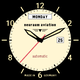
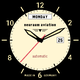
1.1.0: Pebble Time 2 with rounded rectangular dial, 10 clear of the dial
Flange geometry is now given as inset from the display edge, so the same
drawing code serves the round gabbro dial and the rounded rectangle on
emery. Flange numerals one size smaller and the flange 2 px wider, so the
10 fits on its diagonal.

Changed region(s): [[0.075, 0.025, 0.9, 0.975], [0.85, 0.7, 0.9, 0.775], [0.075, 0.25, 0.1, 0.275]]

diff --git a/src/c/neuraum.c b/src/c/neuraum.c
@@ -83,31 +83,52 @@ static const Theme THEMES[THEME_COUNT] = {
 
 // --------------------------------------------------------------- Layout
 
-// Alle Radien vom Displaymittelpunkt aus, Abstaende in Pixeln. Die
-// Verhaeltnisse sind am Foto des Vorbilds abgemessen (Flanschinnenkante bei
-// rund 77 % des Radius, Tagesfenster bei 60 %, Datum bei 51 %).
-#define RING_IN          100   // Innenkante des Flanschs = Rand des Blatts
-#define MINUTE_R_IN       95   // Minuterie: auf dem Blatt, endet am Flansch
-#define MINUTE_R_OUT      99
-#define BAR_R_IN         109   // Balken bei 1, 3, 5, 7, 9, 11 auf dem Flansch
-#define BAR_R_OUT        124
-#define BAR_W              3
-#define INDEX_R_IN        93   // ihre Fortsetzung auf dem Blatt
-#define NUMERAL_R        113   // Mitte der Flanschzahlen
-#define NUMERAL_LIFT      15   // Abstand Textbox-Oberkante zur Ziffernmitte
+// Alles am Flansch wird als Abstand vom Displayrand angegeben ("inset"),
+// gemessen entlang des Strahls aus der Mitte. Auf Gabbro ist der Rand ein
+// Kreis, auf Emery ein abgerundetes Rechteck -- edge_point() rechnet beides,
+// die Zeichenroutinen bleiben dieselben. Die Verhaeltnisse sind am Foto des
+// Vorbilds abgemessen (Blattrand bei rund 75 % des Radius, Tagesfenster bei
+// 60 %, Datum bei 51 %).
+//
+// Der Flansch muss so breit sein, dass die "10" auf ihrer Diagonale Platz
+// hat: gut 23 x 17 px Ziffernbild brauchen auf 300 Grad rund 28 px radial.
+#if defined(PBL_PLATFORM_EMERY)
+  #define CORNER_R        56   // Eckenradius am Displayrand; nach innen konzentrisch
+  #define DIAL_INSET      28   // Blattrand = Innenkante des Flanschs
+  #define BAR_INSET_OUT    5   // Balken bei 1, 3, 5, 7, 9, 11 auf dem Flansch
+  #define BAR_INSET_IN    21
+  #define NUMERAL_INSET   14   // Mitte der Flanschzahlen
 
-#define DAY_DIST          76   // Mitte des Tagesfensters ueber der Mitte
+  #define DAY_DIST        62   // Mitte des Tagesfensters ueber der Mitte
+  #define BRAND_DIST      40   // Schriftzug ueber der Mitte
+  #define LOGO_DIST       24   // Fluegel-Logo ueber der Mitte
+  #define DATE_DIST       46   // Mitte des Datumsfensters rechts der Mitte
+  #define AUTO_DIST       44   // "automatic" unter der Mitte
+  #define MADE_DIST      100   // "MADE IN GERMANY" unter der Mitte
+#else
+  #define DIAL_INSET      32
+  #define BAR_INSET_OUT    6
+  #define BAR_INSET_IN    21
+  #define NUMERAL_INSET   16
+
+  #define DAY_DIST        76
+  #define BRAND_DIST      50
+  #define LOGO_DIST       32
+  #define DATE_DIST       66
+  #define AUTO_DIST       52
+  #define MADE_DIST      114
+#endif
+
+#define MINUTE_LEN         4   // Minuterie: auf dem Blatt, endet am Flansch
+#define INDEX_LEN          7   // dunkle Fortsetzung der Balken auf dem Blatt
+#define BAR_W              3
+#define NUMERAL_LIFT      14   // Abstand Textbox-Oberkante zur Ziffernmitte
+#define MADE_X            33   // "MADE IN" / "GERMANY" links und rechts der 6
+
 #define DAY_W             78
 #define DAY_H             18
-#define BRAND_DIST        50   // Schriftzug ueber der Mitte
-#define LOGO_DIST         32   // Fluegel-Logo ueber der Mitte
-#define DATE_DIST         66   // Mitte des Datumsfensters rechts der Mitte
 #define DATE_W            24
 #define DATE_H            20
-#define AUTO_DIST         52   // "automatic" unter der Mitte
-#define MADE_DIST        114   // "MADE IN GERMANY" unter der Mitte
-#define MADE_X            33   // links und rechts der 6
-
 #define FRAME_W            2
 
 // Gothic zeichnet mit Luft ueber den Grossbuchstaben. Diese Werte ziehen die
@@ -116,19 +137,31 @@ static const Theme THEMES[THEME_COUNT] = {
 #define LIFT_GOTHIC_18    12
 #define LIFT_GOTHIC_09     5
 
-#define MIN_HAND_LEN      92
-#define HOUR_HAND_LEN     64
-#define SEC_HAND_LEN      98
-#define SEC_TAIL          24
-#define SEC_W              2
-#define HUB_R              6
-
 // Zeiger in lokalen Koordinaten: y negativ zeigt zur Spitze. Schwertform,
-// zur Spitze hin breiter, mit schmaler Leuchtmasse-Einlage.
+// zur Spitze hin breiter, mit schmaler Leuchtmasse-Einlage. Auf Emery reicht
+// der Minutenzeiger bis kurz vor die Minuterie an den Laengsseiten.
+#if defined(PBL_PLATFORM_EMERY)
+  #define MIN_HAND_LEN    66
+  #define HOUR_HAND_LEN   46
+  #define SEC_HAND_LEN    70
+  #define SEC_TAIL        18
+  #define HUB_R            5
+static const GPoint MIN_BODY[] = {{-3, 9}, {3, 9}, {5, -50}, {0, -MIN_HAND_LEN}, {-5, -50}};
+static const GPoint MIN_LUME[] = {{-1, -14}, {1, -14}, {3, -48}, {0, -59}, {-3, -48}};
+static const GPoint HOUR_BODY[] = {{-4, 9}, {4, 9}, {6, -31}, {0, -HOUR_HAND_LEN}, {-6, -31}};
+static const GPoint HOUR_LUME[] = {{-1, -14}, {1, -14}, {3, -30}, {0, -39}, {-3, -30}};
+#else
+  #define MIN_HAND_LEN    92
+  #define HOUR_HAND_LEN   64
+  #define SEC_HAND_LEN    96
+  #define SEC_TAIL        24
+  #define HUB_R            6
 static const GPoint MIN_BODY[] = {{-3, 10}, {3, 10}, {6, -70}, {0, -MIN_HAND_LEN}, {-6, -70}};
 static const GPoint MIN_LUME[] = {{-1, -16}, {1, -16}, {3, -68}, {0, -82}, {-3, -68}};
 static const GPoint HOUR_BODY[] = {{-4, 10}, {4, 10}, {7, -44}, {0, -HOUR_HAND_LEN}, {-7, -44}};
 static const GPoint HOUR_LUME[] = {{-1, -16}, {1, -16}, {4, -43}, {0, -55}, {-4, -43}};
+#endif
+#define SEC_W              2
 
 // Fluegel-Logo: Dreieck mit je drei Schwingen, Punkte relativ zur Logomitte.
 static const GPoint LOGO_TRI[] = {{-5, -3}, {5, -3}, {0, 5}};
@@ -175,8 +208,43 @@ static GPoint polar(GPoint c, int32_t angle, int r) {
                 c.y - (int)(cos_lookup(angle) * r / TRIG_MAX_RATIO));
 }
 
-static void radial_line(GContext *ctx, GPoint c, int32_t angle, int r_in, int r_out) {
-  graphics_draw_line(ctx, polar(c, angle, r_in), polar(c, angle, r_out));
+#if defined(PBL_PLATFORM_EMERY)
+// Die SDK bringt kein sqrt mit; ein paar Newton-Schritte reichen fuer Pixel.
+static float fsqrt(float v) {
+  if (v <= 0) return 0;
+  float x = v > 1 ? v : 1;
+  for (int i = 0; i < 12; i++) x = 0.5f * (x + v / x);
+  return x;
+}
+#endif
+
+// Punkt im Abstand inset vom Displayrand auf dem Strahl unter angle. Auf
+// Emery schneidet der Strahl ein abgerundetes Rechteck, dessen Ecken nach
+// innen konzentrisch kleiner werden (Radius CORNER_R - inset).
+static GPoint edge_point(GPoint c, int32_t angle, int inset) {
+#if defined(PBL_PLATFORM_EMERY)
+  const float dx = (float)sin_lookup(angle) / TRIG_MAX_RATIO;
+  const float dy = -(float)cos_lookup(angle) / TRIG_MAX_RATIO;
+  const float ax = dx < 0 ? -dx : dx, ay = dy < 0 ? -dy : dy;
+  const float hx = c.x - inset, hy = c.y - inset;
+  const float r = inset < CORNER_R ? CORNER_R - inset : 0;
+
+  // erst gegen die geraden Seiten, im Eckbereich dann gegen den Viertelkreis
+  float t = (ax * hy > ay * hx) ? hx / ax : hy / ay;
+  const float ccx = hx - r, ccy = hy - r;
+  if (t * ax > ccx && t * ay > ccy) {
+    const float b = ax * ccx + ay * ccy;
+    t = b + fsqrt(b * b - (ccx * ccx + ccy * ccy) + r * r);
+  }
+  return GPoint(c.x + (int)(dx * t + (dx < 0 ? -0.5f : 0.5f)),
+                c.y + (int)(dy * t + (dy < 0 ? -0.5f : 0.5f)));
+#else
+  return polar(c, angle, c.x - inset);
+#endif
+}
+
+static void edge_line(GContext *ctx, GPoint c, int32_t angle, int inset_out, int inset_in) {
+  graphics_draw_line(ctx, edge_point(c, angle, inset_out), edge_point(c, angle, inset_in));
 }
 
 // Text so setzen, dass seine optische Mitte auf (cx, cy) liegt.
@@ -224,7 +292,12 @@ static void draw_bezel(GContext *ctx, GRect bounds, GPoint c, const Theme *t) {
   graphics_fill_rect(ctx, bounds, 0, GCornerNone);
 
   graphics_context_set_fill_color(ctx, t->dial);
-  graphics_fill_circle(ctx, c, RING_IN);
+#if defined(PBL_PLATFORM_EMERY)
+  graphics_fill_rect(ctx, grect_inset(bounds, GEdgeInsets(DIAL_INSET)),
+                     CORNER_R - DIAL_INSET, GCornersAll);
+#else
+  graphics_fill_circle(ctx, c, c.x - DIAL_INSET);
+#endif
 
   // Minuterie: feine Striche am Blattrand, ausser bei den Stunden. Sie
   // enden an der Flanschkante und ragen nicht in den schwarzen Rand.
@@ -232,7 +305,7 @@ static void draw_bezel(GContext *ctx, GRect bounds, GPoint c, const Theme *t) {
   graphics_context_set_stroke_width(ctx, 1);
   for (int m = 0; m < 60; m++) {
     if (m % 5 == 0) continue;
-    radial_line(ctx, c, TRIG_MAX_ANGLE * m / 60, MINUTE_R_IN, MINUTE_R_OUT);
+    edge_line(ctx, c, TRIG_MAX_ANGLE * m / 60, DIAL_INSET + 1, DIAL_INSET + MINUTE_LEN);
   }
 
   // Ungerade Stunden: heller Balken auf dem Flansch, dunkler auf dem Blatt
@@ -240,16 +313,16 @@ static void draw_bezel(GContext *ctx, GRect bounds, GPoint c, const Theme *t) {
   for (int h = 1; h < 12; h += 2) {
     const int32_t a = TRIG_MAX_ANGLE * h / 12;
     graphics_context_set_stroke_color(ctx, t->bezel_print);
-    radial_line(ctx, c, a, BAR_R_IN, BAR_R_OUT);
+    edge_line(ctx, c, a, BAR_INSET_OUT, BAR_INSET_IN);
     graphics_context_set_stroke_color(ctx, t->print);
-    radial_line(ctx, c, a, INDEX_R_IN, RING_IN - 1);
+    edge_line(ctx, c, a, DIAL_INSET + 1, DIAL_INSET + INDEX_LEN);
   }
 
   // Gerade Stunden: Zahlen, aufrecht wie beim Vorbild
   graphics_context_set_text_color(ctx, t->bezel_print);
   static const char *NUMERALS[] = {"12", "2", "4", "6", "8", "10"};
   for (int i = 0; i < 6; i++) {
-    const GPoint p = polar(c, TRIG_MAX_ANGLE * i / 6, NUMERAL_R);
+    const GPoint p = edge_point(c, TRIG_MAX_ANGLE * i / 6, NUMERAL_INSET);
     draw_text_at(ctx, NUMERALS[i], s_font_numerals, p.x, p.y, NUMERAL_LIFT, 40);
   }
 
@@ -408,7 +481,7 @@ static void window_unload(Window *window) {
 
 static void init(void) {
   load_settings();
-  s_font_numerals = fonts_load_custom_font(resource_get_handle(RESOURCE_ID_FONT_ROBOTO_25));
+  s_font_numerals = fonts_load_custom_font(resource_get_handle(RESOURCE_ID_FONT_ROBOTO_23));
 
   s_window = window_create();
   window_set_window_handlers(s_window, (WindowHandlers) {

diff --git a/README.md b/README.md
@@ -1,15 +1,20 @@
 # Neuraum
 
-*A classic pilot's automatic for the Pebble Round 2.*
+*A classic pilot's automatic for the Pebble Round 2 and Pebble Time 2.*
 
 <img src="screenshots/shot_gabbro_cream.png" alt="Cream dial"> <img src="screenshots/shot_gabbro_blue.png" alt="Blue dial"> <img src="screenshots/shot_gabbro_olive.png" alt="Olive dial">
 
-A Pebble watchface (v1.0.0), available in the [Rebble App Store](https://apps.rePebble.com/6f19fab7129642619a7356db).
+<img src="screenshots/shot_emery_cream.png" alt="Cream dial, Time 2"> <img src="screenshots/shot_emery_anthracite.png" alt="Anthracite dial, Time 2"> <img src="screenshots/shot_emery_silver.png" alt="Silver dial, Time 2">
 
-Neuraum recreates the look of a classic German pilot's automatic watch on
-the round display of the Pebble Round 2: a black flange with cream numerals,
-a cream dial with day and date windows, and slim sword hands with luminous
-inlays.
+A Pebble watchface (v1.1.0), available in the [Rebble App Store](https://apps.rePebble.com/6f19fab7129642619a7356db).
+
+Neuraum recreates the look of a classic German pilot's automatic watch: a
+black flange with cream numerals, a cream dial with day and date windows,
+and slim sword hands with luminous inlays.
+
+On the Pebble Round 2 the dial is round like the original. On the Pebble
+Time 2 it becomes a cushion case: a rectangular dial with rounded corners,
+framed by the same flange, with every marker following the curve.
 
 The flange carries the even hours as upright numerals and the odd hours as
 cream bars that continue as dark indices on the dial. A fine minute track
@@ -31,6 +36,7 @@ Neuraum makes no network requests and uses no sensors.
 ## Platforms
 
 - Pebble Round 2 (`gabbro`)
+- Pebble Time 2 (`emery`)
 
 ## Building
 
@@ -44,6 +50,13 @@ pebble install --emulator gabbro
 The repository can also be imported into CloudPebble as is.
 
 ## Release notes
+
+### 1.1.0
+
+Neuraum now runs on the Pebble Time 2 as well, with a rectangular dial with
+rounded corners in the same style and with the same settings. On the Pebble
+Round 2 the flange numerals are set slightly smaller so the 10 no longer
+touches the edge of the dial.
 
 ### 1.0.0
 
